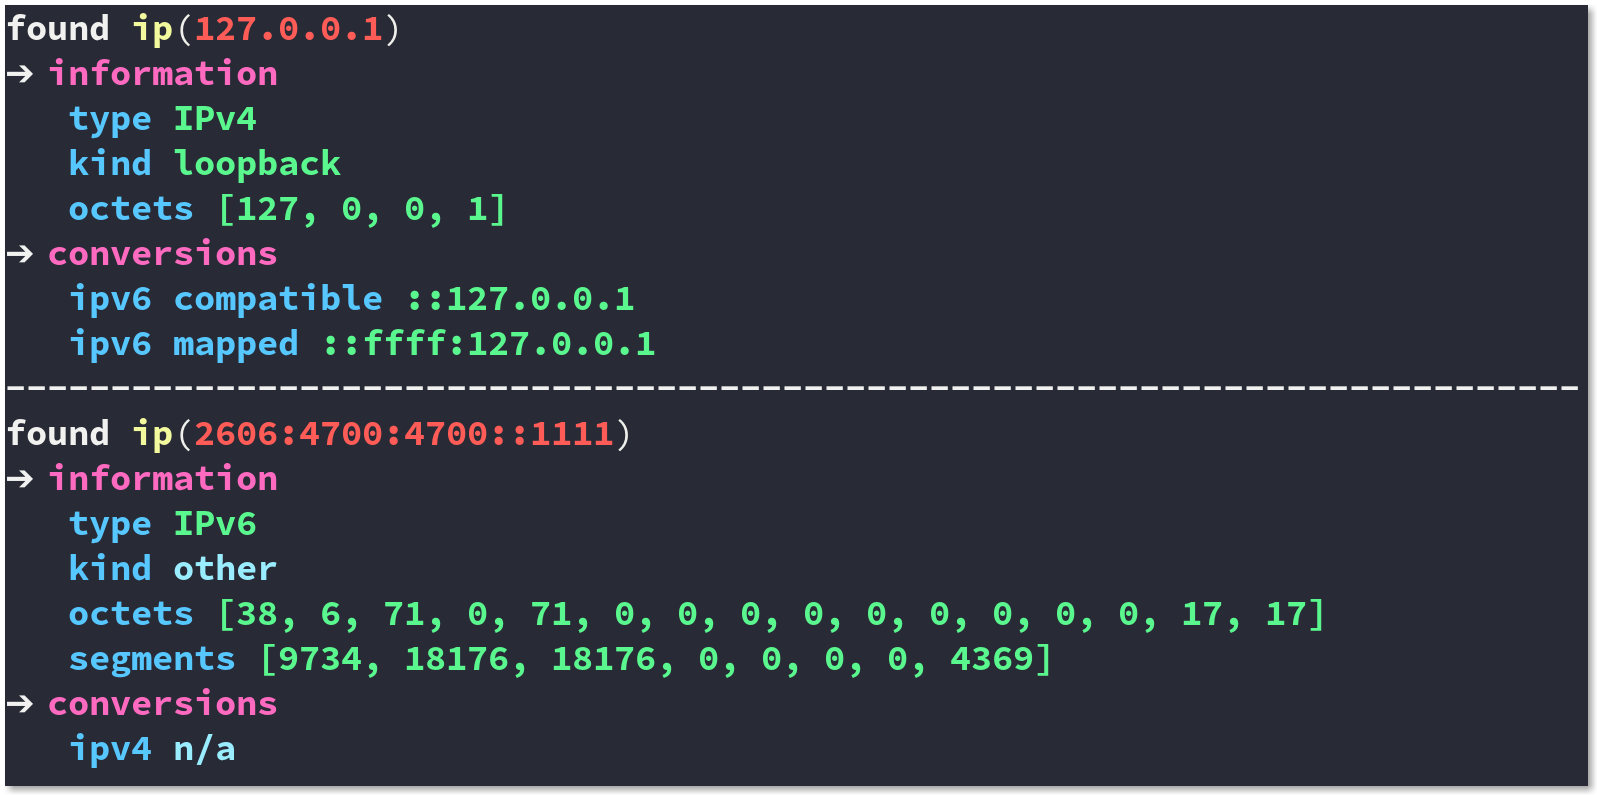
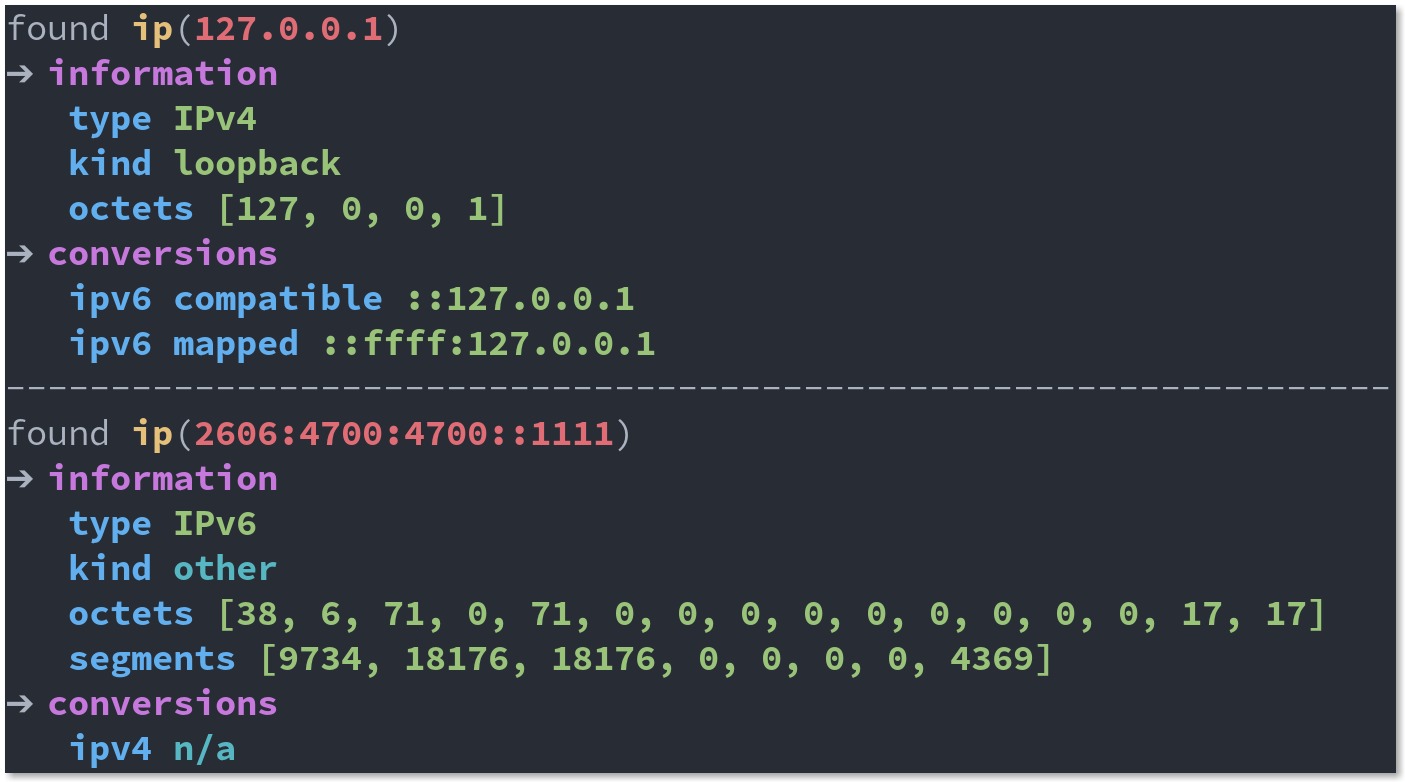
v0.7.2: some tweaks

Changed region(s): [[0.0, 0.0, 1.0, 0.9821]]

diff --git a/src/bin/main.rs b/src/bin/main.rs
@@ -1,40 +1,46 @@
 use b0x::config::Config;
-use clap::{crate_authors, crate_description, crate_name, crate_version, App, Arg};
+use clap::{crate_authors, crate_description, crate_name, crate_version, App, AppSettings, Arg};
 use colored::*;
-use termion::terminal_size;
 
-const INPUT_HELP: &'static str =
-    "Input data. Supported formats:
+fn input_help() -> String {
+    format!(
+        "Input data. Supported formats:
     • IP addresses
-        ◦ IPv4: 1.1.1.1
-        ◦ IPv6: 2606:4700:4700::1111
+        ◦ IPv4: {}
+        ◦ IPv6: {}
     • Unsigned integers
-        ◦ Binary:      0b101010
-        ◦ Octal:       0o52
-        ◦ Hexadecimal: 0x2A
-        ◦ Decimal:     42
-    • Strings";
-
-const IGNORE_PASSES_HELP: &'static str =
-    "Ignore pass(-es). Specify first characters of the passes you want to ignore. For example:
-    -pipe       | ignores `is_prime`, `power`, `english`
-    --ignore sm | ignores `structure`, `modifications`";
+        ◦ Binary:      {}
+        ◦ Octal:       {}
+        ◦ Hexadecimal: {}
+        ◦ Decimal:     {}
+    • Strings",
+        "127.0.0.1".blue(),
+        "2606:4700:4700::1111".blue(),
+        "0b101010".blue(),
+        "0o52".blue(),
+        "0x2A".blue(),
+        "42".blue()
+    )
+}
 
 fn main() {
     let matches = App::new(crate_name!())
         .version(crate_version!())
         .author(crate_authors!())
         .about(crate_description!())
+        .settings(&[AppSettings::UnifiedHelpMessage, AppSettings::ColoredHelp])
         .arg(
             Arg::with_name("input")
-                .help(INPUT_HELP)
+                .help(&input_help())
                 .multiple(true)
                 .required(true)
                 .index(1),
         )
         .arg(
             Arg::with_name("passes")
-                .help(IGNORE_PASSES_HELP)
+                .help(
+                    "Ignores pass(-es). Specify first characters of the passes you want to ignore",
+                )
                 .short("p")
                 .long("ignore")
                 .takes_value(true)
@@ -45,7 +51,7 @@ fn main() {
     let inputs = matches.values_of("input").unwrap();
     let ignored_passes = matches.value_of("passes").unwrap_or("");
 
-    let terminal_width = terminal_size().unwrap_or((80, 24)).0;
+    let terminal_width = term_size::dimensions().unwrap_or((80, 24)).0;
     let length = inputs.len();
     let mut i = 1;
 
@@ -54,7 +60,7 @@ fn main() {
         b0x::run(config);
 
         if i < length {
-            println!("{}", "-".repeat(terminal_width as usize).white().bold())
+            println!("{}", "-".repeat(terminal_width))
         }
 
         i += 1;

diff --git a/src/pass/ip_addr.rs b/src/pass/ip_addr.rs
@@ -16,35 +16,41 @@ pub fn information(ip: &IpAddr) {
         IpAddr::V4(v) => {
             info!("type", "IPv4");
 
-            info!("kind", match v {
-                _ if v.is_unspecified() => "unspecified",
-                _ if v.is_loopback() => "loopback",
-                _ if v.is_multicast() => "multicast",
+            info!(
+                "kind",
+                match v {
+                    _ if v.is_unspecified() => "unspecified",
+                    _ if v.is_loopback() => "loopback",
+                    _ if v.is_multicast() => "multicast",
 
-                _ if v.is_private() => "private",
-                _ if v.is_link_local() => "link-local",
-                _ if v.is_broadcast() => "broadcast",
-                _ if v.is_documentation() => "documentation",
+                    _ if v.is_private() => "private",
+                    _ if v.is_link_local() => "link-local",
+                    _ if v.is_broadcast() => "broadcast",
+                    _ if v.is_documentation() => "documentation",
 
-                _ => &other,
-            });
+                    _ => &other,
+                }
+            );
 
             info!("octets", format!("{:?}", v.octets()));
-        },
+        }
         IpAddr::V6(v) => {
             info!("type", "IPv6");
 
-            info!("kind", match v {
-                _ if v.is_unspecified() => "unspecified",
-                _ if v.is_loopback() => "loopback",
-                _ if v.is_multicast() => "multicast",
+            info!(
+                "kind",
+                match v {
+                    _ if v.is_unspecified() => "unspecified",
+                    _ if v.is_loopback() => "loopback",
+                    _ if v.is_multicast() => "multicast",
 
-                _ => &other,
-            });
+                    _ => &other,
+                }
+            );
 
             info!("octets", format!("{:?}", v.octets()));
             info!("segments", format!("{:?}", v.segments()));
-        },
+        }
     }
 }
 
@@ -54,12 +60,12 @@ pub fn conversions(ip: &IpAddr) {
         IpAddr::V4(v) => {
             info!("ipv6 compatible", v.to_ipv6_compatible());
             info!("ipv6 mapped", v.to_ipv6_mapped());
-        },
+        }
         IpAddr::V6(v) => {
             match v.to_ipv4() {
                 Some(v) => info!("ipv4", v),
-                None => na!("ipv4")
+                None => na!("ipv4"),
             };
-        },
+        }
     }
 }

diff --git a/src/pass/mod.rs b/src/pass/mod.rs
@@ -53,20 +53,14 @@ impl<'a, T: ToString> PassSequence<'a, T> {
         let data = input.to_string().red().bold();
         let ty = self.ty.yellow().bold();
 
-        println!("{} {}({})", "found".white().bold(), ty, data);
+        println!("found {}({})", ty, data);
 
         for pass in self.passes.iter() {
             if !self.config.is_ignored(&pass.name) {
-                println!("{} {}", "➔".white().bold(), &pass.name.magenta().bold());
-
+                println!("➔ {}", &pass.name.magenta().bold());
                 pass.run(input);
             } else {
-                println!(
-                    "{} {} {}",
-                    "✘".white().bold(),
-                    &pass.name.magenta().bold(),
-                    "ignored".white().bold()
-                );
+                println!("✘ {} ignored", &pass.name.magenta().bold());
             }
         }
     }
@@ -115,6 +109,6 @@ macro_rules! na {
     };
 }
 
-pub mod ip_addr;
 pub mod integer;
+pub mod ip_addr;
 pub mod string;

diff --git a/CHANGELOG.md b/CHANGELOG.md
@@ -3,6 +3,11 @@ All notable changes to this project will be documented in this file.
 The format is based on [Keep a Changelog](http://keepachangelog.com/en/1.0.0/)
 and this project adheres to [Semantic Versioning](http://semver.org/spec/v2.0.0.html).
 
+## [0.7.2] - 2018-12-31
+### Changed
+- Use `term_size` instead of `termion`
+- Color tweaks
+
 ## [0.7.1] - 2018-12-31
 ### Changed
 - Merged `ip_addr -> {general, specific}` into `ip_addr -> information`

diff --git a/README.md b/README.md
@@ -23,7 +23,7 @@ $ b0x <input>...
 
 Supported data types:
 - IP addresses
-    - IPv4: `1.1.1.1`
+    - IPv4: `127.0.0.1`
     - IPv6: `2606:4700:4700::1111`
 - Unsigned integers
     - Binary: `0b101010`
